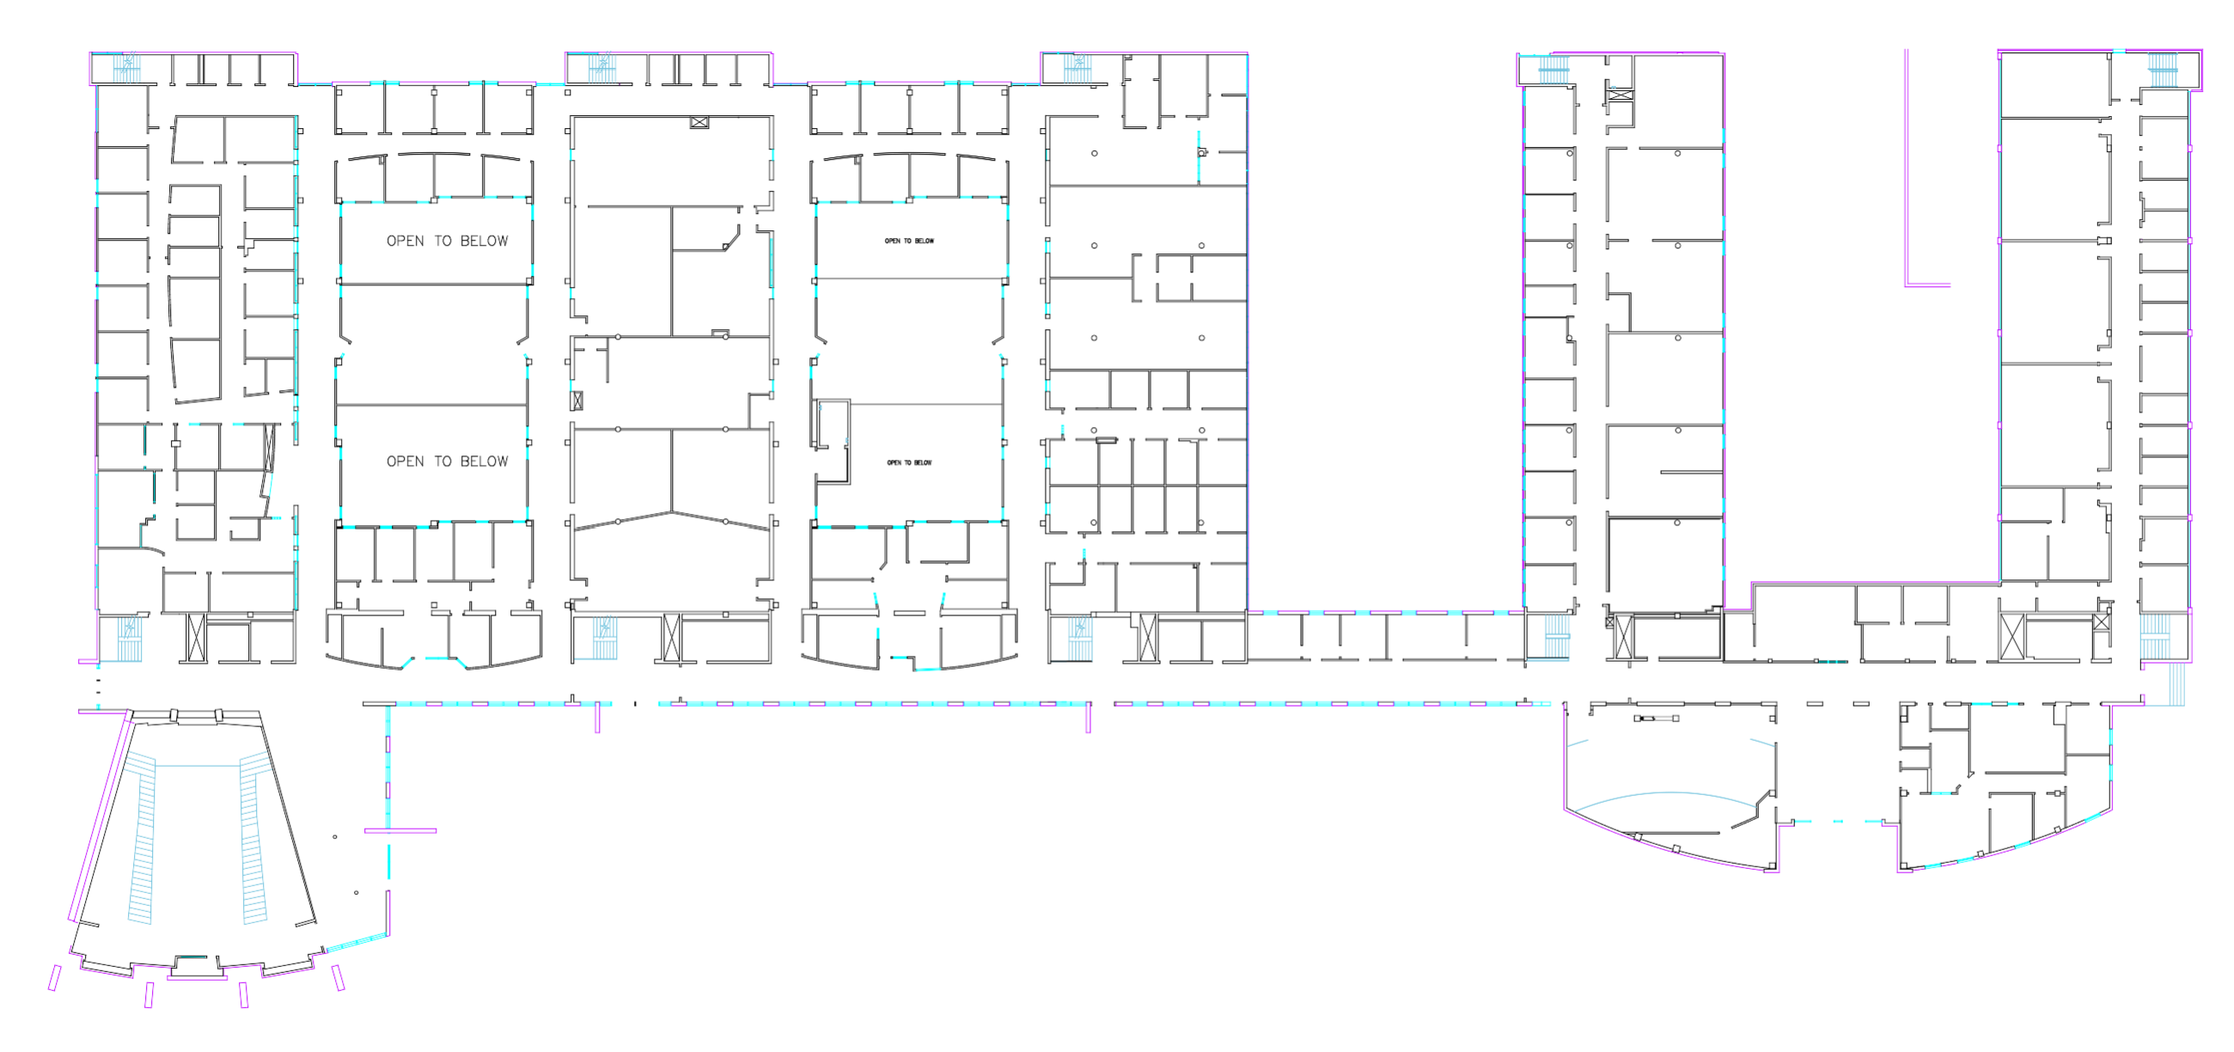
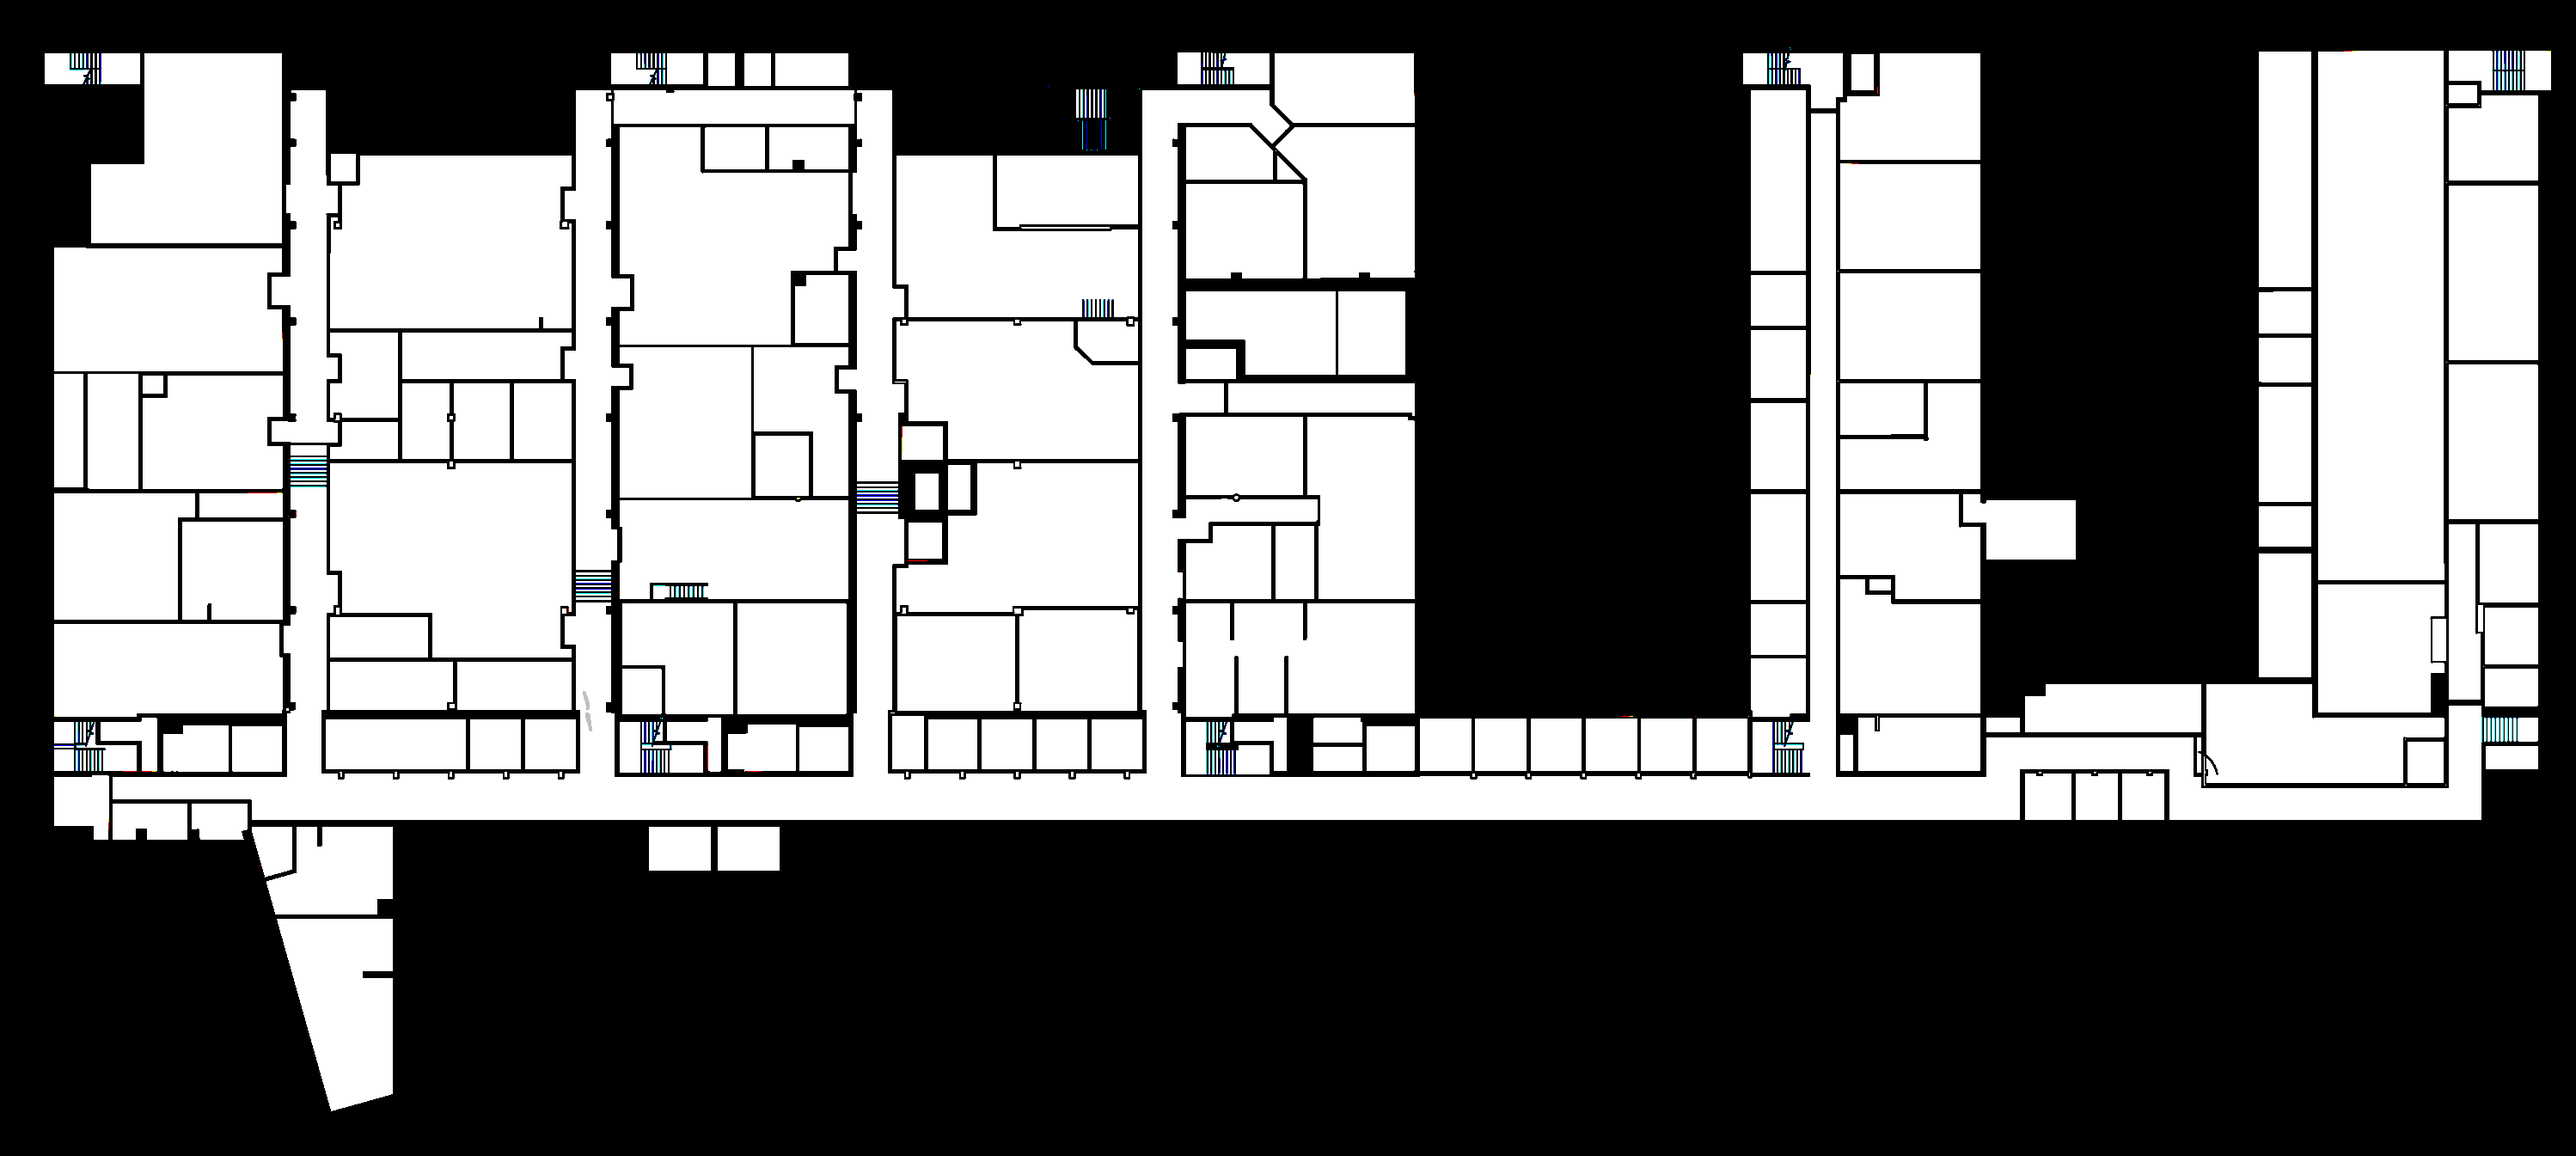
Some tuning, should work better

diff --git a/map.py b/map.py
@@ -7,9 +7,9 @@ from PyQt6.QtGui import QImage, QPen, QPainterPath
 from PyQt6.QtCore import QPointF
 import heapq, math
 
-red_threshold = 250
-green_threshold = 250
-blue_threshold = 250
+red_threshold = 20
+green_threshold = 20
+blue_threshold = 20
 
 class GPSMapViewer(QGraphicsView):
     def __init__(self, map_path, bbox):
@@ -30,9 +30,9 @@ class GPSMapViewer(QGraphicsView):
         self.marker.setBrush(QBrush(QColor("red")))
         self.scene.addItem(self.marker)
 
-        # 40.57579702201656, -105.08348366394911
-        self.lat = 40.57579702201656
-        self.lon = -105.08348366394911
+        # 40.575778935543234, -105.08325487374624
+        self.lat = 40.575778935543234
+        self.lon = -105.08325487374624
         self.update_marker()
 
         # simulated gps updates
@@ -219,11 +219,11 @@ if __name__ == "__main__":
     app = QApplication(sys.argv)
 
     # From image - (min_lat, max_lat, min_lon, max_lon)
-    # Top right 40.575920, -105.084196
-    # Bottom left 40.575243, -105.082178
+    # Top right 40.57590353282978, -105.08415316215739
+    # Bottom left 40.57521493599895, -105.0821656452189
 
-    bbox = (40.575243, 40.575920, -105.084196, -105.082178)
+    bbox = (40.57521493599895, 40.57590353282978, -105.08415316215739, -105.0821656452189)
 
-    view = GPSMapViewer("bldg-map.svg", bbox)
+    view = GPSMapViewer("bldg-map.png", bbox)
     view.show()
     sys.exit(app.exec())
